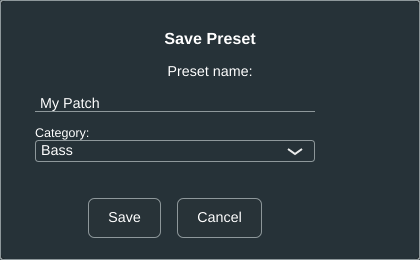
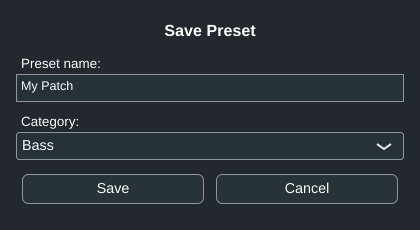
Fix CI: save-dialog smoke used a real AlertWindow (X error under Xvfb)
The Inc 3 save-dialog screenshot test constructed a juce::AlertWindow, which tries to
grab a native X top-level window and crashes CI's headless Xvfb (BadAtom / X_ChangeProperty);
it passed locally only because there's a real X server. Rebuilt the test as a plain offscreen
Component using the same widget types (TextEditor + ComboBox category picker + buttons) — the
same headless-safe pattern as the editor-subcomponent snapshots. Asserts the picker offers
every category, and regenerates docs/smoke/save-dialog.png. Windows was already green.

diff --git a/tests/plugin/test_ui_smoke.cpp b/tests/plugin/test_ui_smoke.cpp
@@ -379,30 +379,55 @@ TEST_CASE ("unison: UNI/DET/WID controls are bound and render (#96)", "[plugin][
 }
 
 // --- Inc 3: the Save dialog carries a category picker; screenshot for sign-off ------------
+// Rendered as a plain offscreen Component (NOT a real juce::AlertWindow, which would try to
+// grab a native X window and fail under CI's Xvfb) — same widget types the real dialog uses.
+namespace
+{
+    struct SaveDialogMock : juce::Component
+    {
+        juce::Label title { {}, "Save Preset" }, nameLbl { {}, "Preset name:" }, catLbl { {}, "Category:" };
+        juce::TextEditor name;
+        juce::ComboBox cat;
+        juce::TextButton saveB { "Save" }, cancelB { "Cancel" };
+        SaveDialogMock()
+        {
+            title.setJustificationType (juce::Justification::centred);
+            title.setFont (juce::Font (juce::FontOptions (18.0f, juce::Font::bold)));
+            for (auto* l : { &title, &nameLbl, &catLbl }) l->setColour (juce::Label::textColourId, juce::Colours::white);
+            name.setText ("My Patch");
+            juce::StringArray cats = FactoryPresetLibrary::canonicalOrder(); cats.add ("User");
+            for (int i = 0; i < cats.size(); ++i) cat.addItem (cats[i], i + 1);
+            cat.setText ("Bass", juce::dontSendNotification);
+            addAndMakeVisible (title);  addAndMakeVisible (nameLbl); addAndMakeVisible (name);
+            addAndMakeVisible (catLbl); addAndMakeVisible (cat);     addAndMakeVisible (saveB); addAndMakeVisible (cancelB);
+        }
+        void paint (juce::Graphics& g) override { g.fillAll (juce::Colour (0xff23272e)); }
+        void resized() override
+        {
+            auto r = getLocalBounds().reduced (16);
+            title.setBounds (r.removeFromTop (30)); r.removeFromTop (8);
+            nameLbl.setBounds (r.removeFromTop (20));
+            name.setBounds (r.removeFromTop (28)); r.removeFromTop (10);
+            catLbl.setBounds (r.removeFromTop (20));
+            cat.setBounds (r.removeFromTop (28)); r.removeFromTop (14);
+            auto b = r.removeFromTop (30);
+            saveB.setBounds (b.removeFromLeft (b.getWidth() / 2).reduced (6, 0));
+            cancelB.setBounds (b.reduced (6, 0));
+        }
+    };
+}
+
 TEST_CASE ("save dialog: category picker present + renders", "[plugin][smoke][menu]")
 {
     juce::ScopedJuceInitialiser_GUI juceInit;
-    juce::LookAndFeel_V4 lnf;
-    juce::LookAndFeel::setDefaultLookAndFeel (&lnf);
+    SaveDialogMock dlg;
+    dlg.setSize (420, 230);
 
-    juce::AlertWindow aw ("Save Preset", "Preset name:", juce::MessageBoxIconType::NoIcon);
-    aw.addTextEditor ("name", "My Patch");
     juce::StringArray cats = FactoryPresetLibrary::canonicalOrder(); cats.add ("User");
-    aw.addComboBox ("cat", cats, "Category:");
-    if (auto* cb = aw.getComboBoxComponent ("cat")) cb->setText ("Bass", juce::dontSendNotification);
-    aw.addButton ("Save", 1); aw.addButton ("Cancel", 0);
+    REQUIRE (dlg.cat.getNumItems() == cats.size());              // every category is offered
+    REQUIRE (dlg.cat.getText() == "Bass");
 
-    REQUIRE (aw.getComboBoxComponent ("cat") != nullptr);        // the picker exists
-    REQUIRE (aw.getComboBoxComponent ("cat")->getNumItems() == cats.size());
-    aw.setBounds (0, 0, 420, 260);
-
-    auto img = aw.createComponentSnapshot (aw.getLocalBounds(), false, 1.0f);
-    REQUIRE (img.isValid());
-    juce::File out (juce::String (VASYNTH_DOCS_DIR) + "/smoke/save-dialog.png");
-    out.getParentDirectory().createDirectory(); out.deleteFile();
-    juce::FileOutputStream os (out); REQUIRE (os.openedOk());
-    juce::PNGImageFormat png; REQUIRE (png.writeImageToStream (img, os));
-    juce::LookAndFeel::setDefaultLookAndFeel (nullptr);
+    snapshot (dlg, "save-dialog.png");
 }
 
 // --- Inc 2: per-patch TRIM (program level) is wired, carries the preset, screenshots ----
